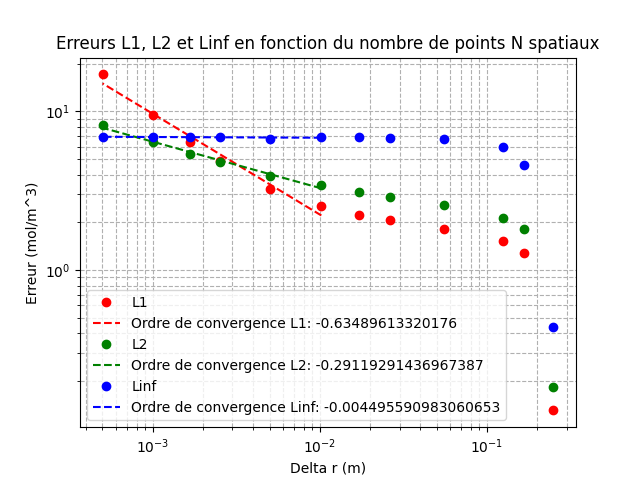
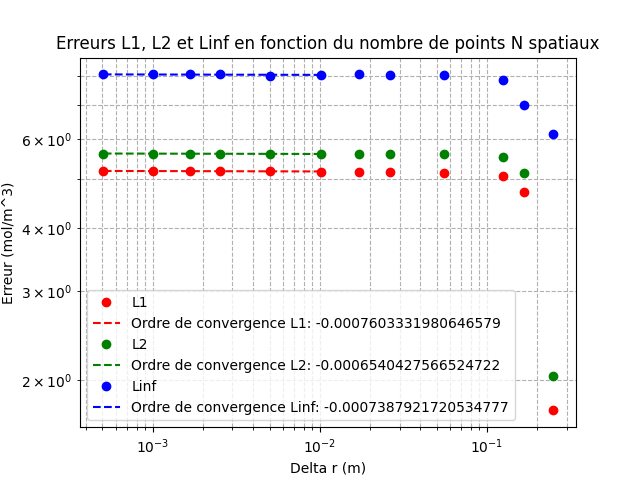
Modif de la fonction concentrations
La fonction de calcul de la concentration retourne maintenant un tableau avec sur chaque lignes un instant différent et sur les colonnes les points spatiaux différents

diff --git a/Devoir 2/src/main.py b/Devoir 2/src/main.py
@@ -93,15 +93,18 @@ for i in (range(len(list_N_spatiaux))):
     delta_r = R/(list_N_spatiaux[i]-1)
     N_spatial = list_N_spatiaux[i]
     
-    C_i, r_i, t_i=functions.Concentrations(delta_r, delta_t)
-    y_values = C_chapeau(r_i, Tf)
+    C_i_n, r_i, t_i=functions.Concentrations(delta_r, delta_t)
+    C_spatiaux = C_i_n[-1,:]
+    C_temporels = C_i_n[:,0]
+    C_exact_spatial = C_chapeau(r_i, Tf)
+    C_exacte_temporel = C_chapeau(0, t_i)
     vectDelta_r[i]=delta_r
 
-    L1=errors.ErreurL1(C_i,y_values,N_spatial,N_temporel)
+    L1=errors.ErreurL1(C_spatiaux,C_temporels,C_exact_spatial,C_exacte_temporel,N_spatial,N_temporel)
     vectL1[i]=L1
-    L2=errors.ErreurL2(C_i,y_values,N_spatial,N_temporel)
+    L2=errors.ErreurL2(C_spatiaux,C_temporels,C_exact_spatial,C_exacte_temporel,N_spatial,N_temporel)
     vectL2[i]=L2
-    Linf=errors.ErreurLinf(C_i,y_values)
+    Linf=errors.ErreurLinf(C_spatiaux,C_temporels,C_exact_spatial,C_exacte_temporel)
     vectLinf[i]=Linf
 
 plt.figure()
@@ -152,15 +155,18 @@ for i in (range(len(list_N_temporel))):
     delta_t = Tf/(list_N_temporel[i]-1)
     N_temporel = list_N_temporel[i]
     
-    C_i, r_i, t_i=functions.Concentrations(delta_r, delta_t)
-    y_values = C_chapeau(0.25, t_i)
+    C_i_n, r_i, t_i=functions.Concentrations(delta_r, delta_t)
+    C_spatiaux = C_i_n[-1,:]
+    C_temporels = C_i_n[:,0]
+    C_exact_spatial = C_chapeau(r_i, Tf)
+    C_exacte_temporel = C_chapeau(0, t_i)
     vectDelta_t[i]=delta_t
 
-    L1=errors.ErreurL1(C_i[2],y_values,N_spatial,N_temporel)
+    L1=errors.ErreurL1(C_spatiaux,C_temporels,C_exact_spatial,C_exacte_temporel,N_spatial,N_temporel)
     vectL1[i]=L1
-    L2=errors.ErreurL2(C_i[2],y_values,N_spatial,N_temporel)
+    L2=errors.ErreurL2(C_spatiaux,C_temporels,C_exact_spatial,C_exacte_temporel,N_spatial,N_temporel)
     vectL2[i]=L2
-    Linf=errors.ErreurLinf(C_i[2],y_values)
+    Linf=errors.ErreurLinf(C_spatiaux,C_temporels,C_exact_spatial,C_exacte_temporel)
     vectLinf[i]=Linf
 
 plt.figure()

diff --git a/Devoir 2/src/errors.py b/Devoir 2/src/errors.py
@@ -12,25 +12,25 @@ import numpy as np
 ###################
 #Erreur L1 discrète
 ###################
-def ErreurL1(Ci,Ci_exact,N_spatial,N_temporel):
+def ErreurL1(C_spatiaux,C_temporels,C_exact_spatial,C_exacte_temporel,N_spatial,N_temporel):
     """Fonction de calcul de l'erreur L1 discrète"""
-    normeL1 = 1/N_spatial*np.sum(np.abs(Ci-Ci_exact))+1/N_temporel*np.sum(np.abs(Ci-Ci_exact))
+    normeL1 = 1/N_spatial*np.sum(np.abs(C_spatiaux-C_exact_spatial))+1/N_temporel*np.sum(np.abs(C_temporels-C_exacte_temporel))
     return normeL1
 
 
 ###################
 #Erreur L2 discrète
 ###################
-def ErreurL2(Ci,Ci_exact,N_spatial,N_temporel):
+def ErreurL2(C_spatiaux,C_temporels,C_exact_spatial,C_exacte_temporel,N_spatial,N_temporel):
     """Fonction de calcul de l'erreur L2 discrète"""
-    normeL2 = np.sqrt(1/N_spatial*np.sum(np.abs(Ci-Ci_exact)**2))+np.sqrt(1/N_temporel*np.sum(np.abs(Ci-Ci_exact)**2))
+    normeL2 = np.sqrt(1/N_spatial*np.sum(np.abs(C_spatiaux-C_exact_spatial)**2))+np.sqrt(1/N_temporel*np.sum(np.abs(C_temporels-C_exacte_temporel)**2))
     return normeL2
 
 
 #####################
 #Erreur Linf discrète
 #####################
-def ErreurLinf(Ci,Ci_exact):
+def ErreurLinf(C_spatiaux,C_temporels,C_exact_spatial,C_exacte_temporel):
     """Fonction de calcul de l'erreur Linf discrète"""
-    normeLinf = np.max(np.abs(Ci-Ci_exact))+np.max(np.abs(Ci-Ci_exact))
+    normeLinf = np.max(np.abs(C_spatiaux-C_exact_spatial))+np.max(np.abs(C_temporels-C_exacte_temporel))
     return normeLinf

diff --git a/Devoir 2/src/functions.py b/Devoir 2/src/functions.py
@@ -49,6 +49,7 @@ def Concentrations(delta_r, delta_t):
 
     # Initialisation des matrices et vecteurs
     C_i = np.zeros(N_spatial)
+    C_i_n = np.zeros((N_temporel,N_spatial))
     matA = np.zeros((N_spatial, N_spatial))
     vectB = np.zeros(N_spatial)
 
@@ -68,11 +69,13 @@ def Concentrations(delta_r, delta_t):
         matA[i, i + 1] = D_EFF * (1 / delta_r**2 + 1 / (2 * r_i[i] * delta_r))
 
     # Boucle temporelle pour résoudre C_i à chaque pas de temps
-    for t in t_i:
+    for i in range(len(t_i)):
+        t=t_i[i]
         for j in range(1, N_spatial - 1):
             vectB[j] = - C_i[j] / delta_t + terme_source(r_i[j], t)
 
         # Résolution du système matriciel A * C_new = B
         C_new = np.linalg.solve(matA, vectB)
         C_i = C_new     # Mise à jour des concentrations pour l'itération suivante
-    return C_i, r_i, t_i
+        C_i_n[i] = C_i
+    return C_i_n, r_i, t_i
